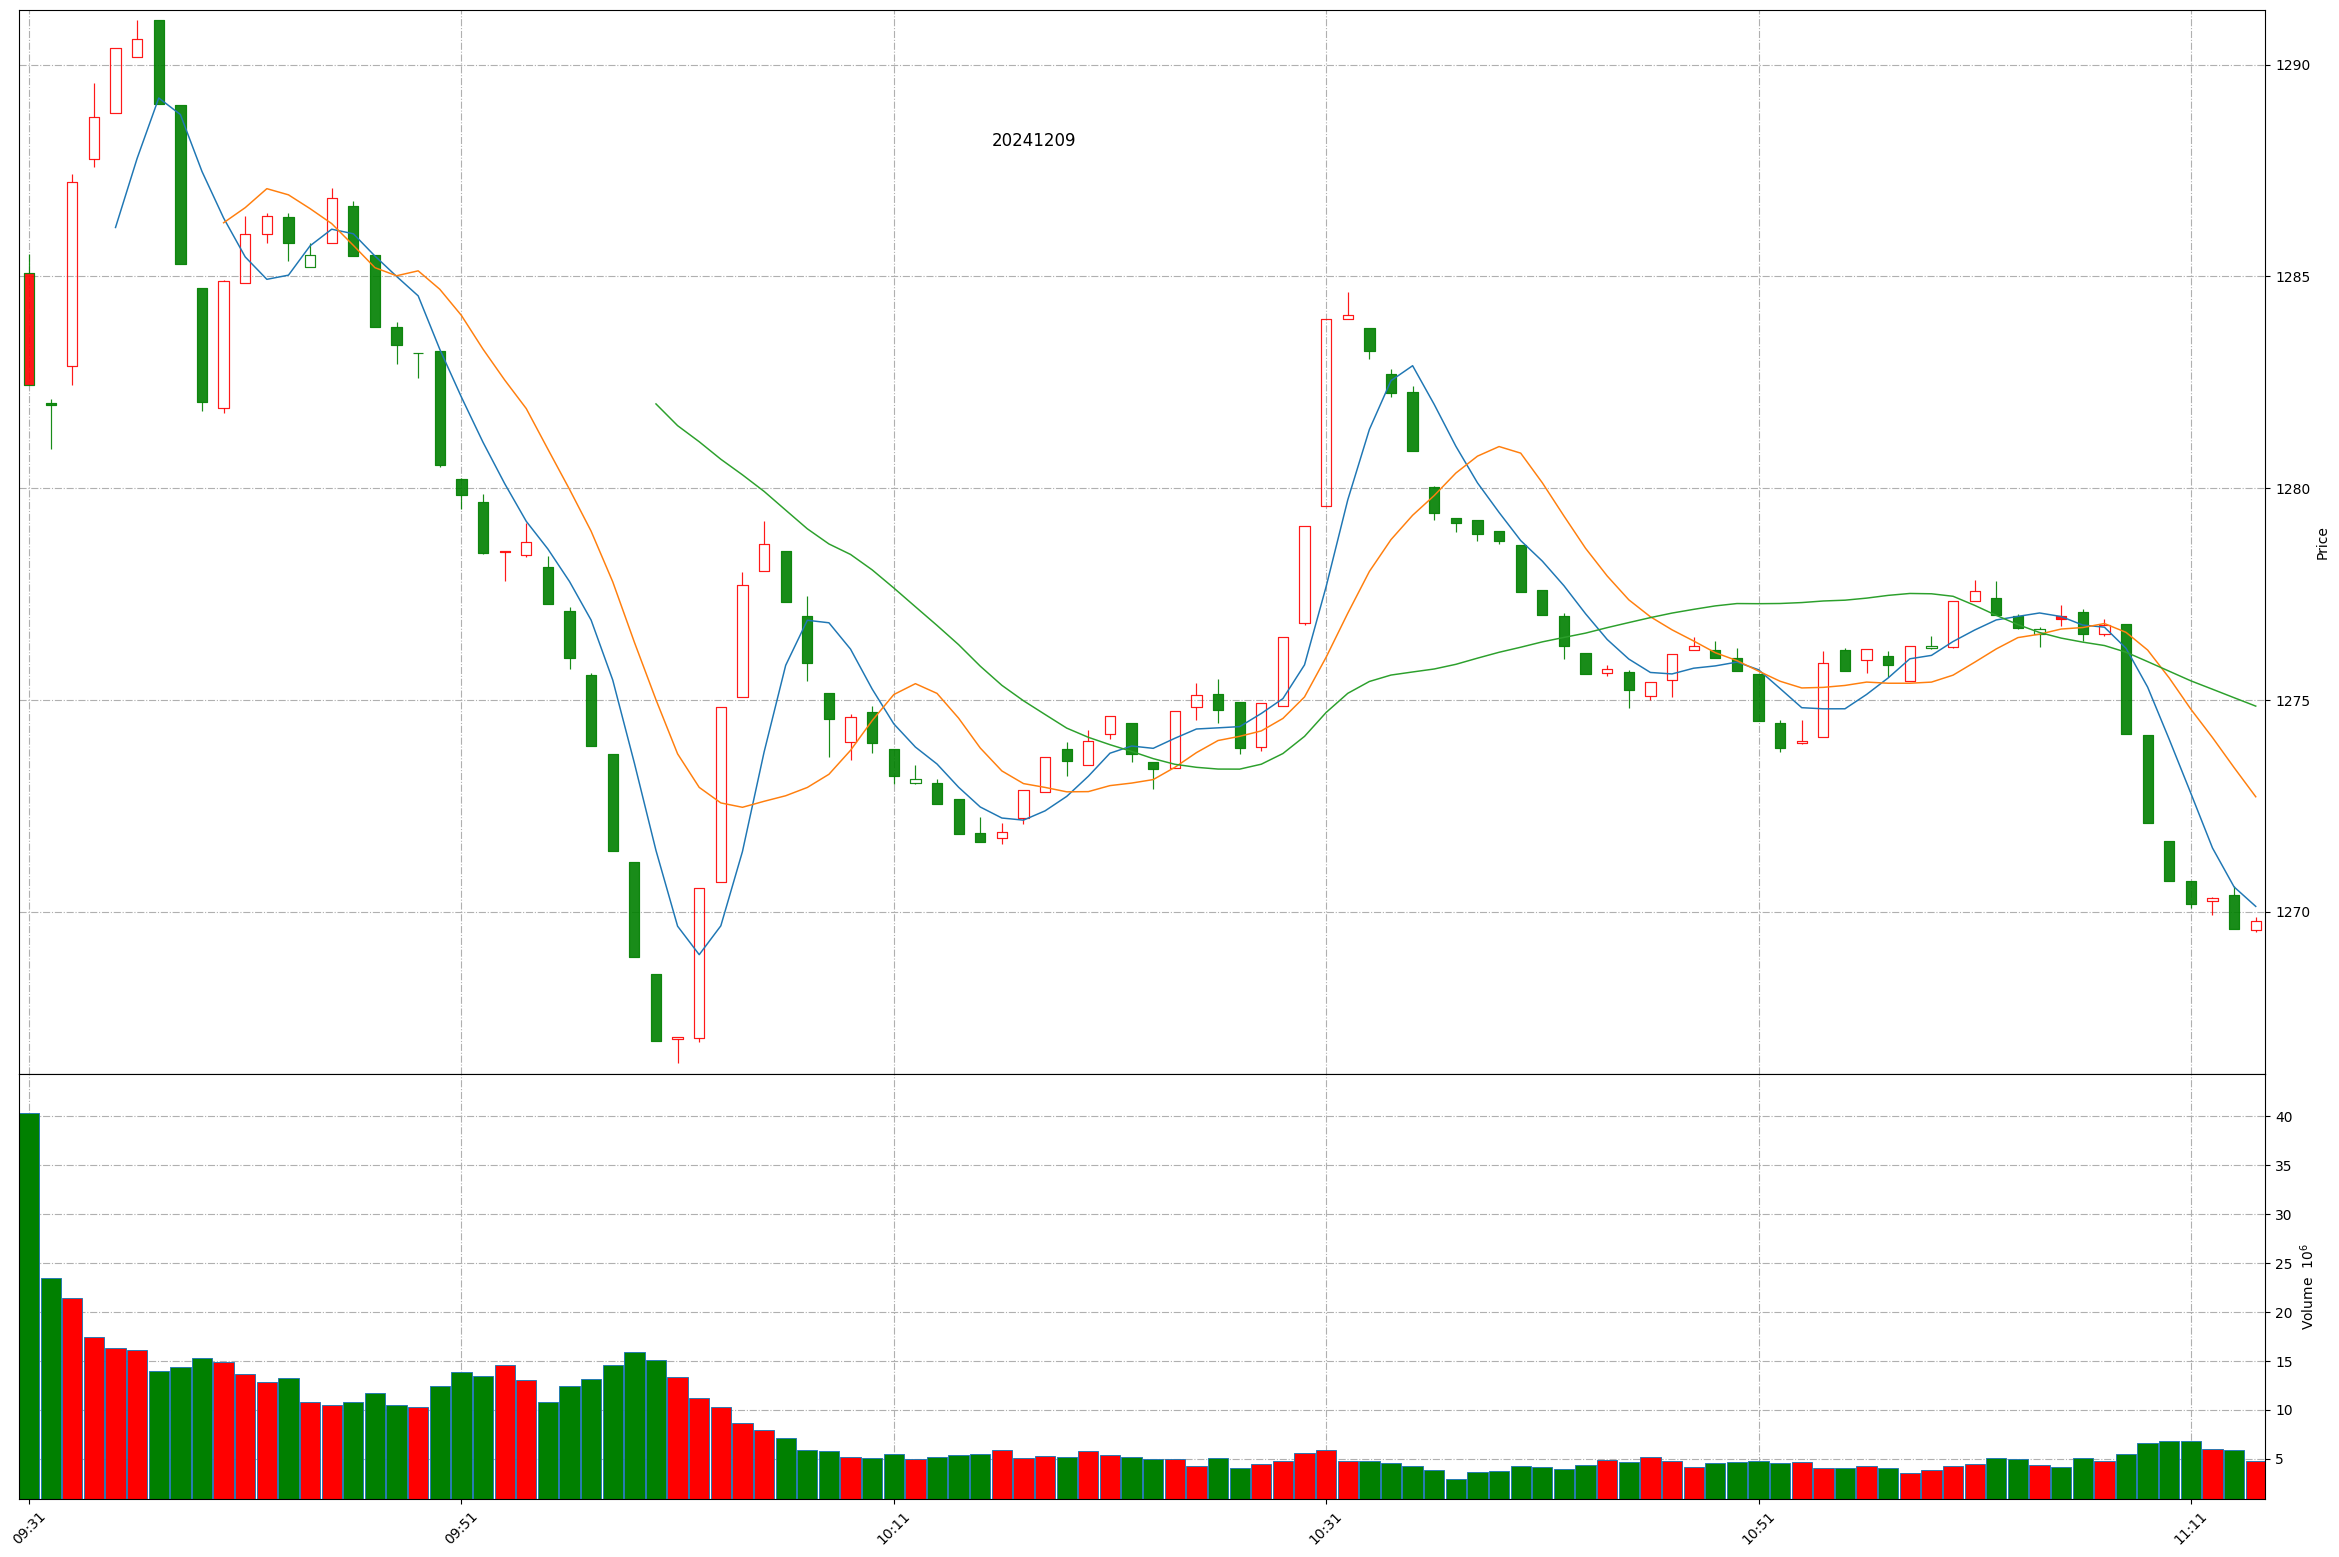
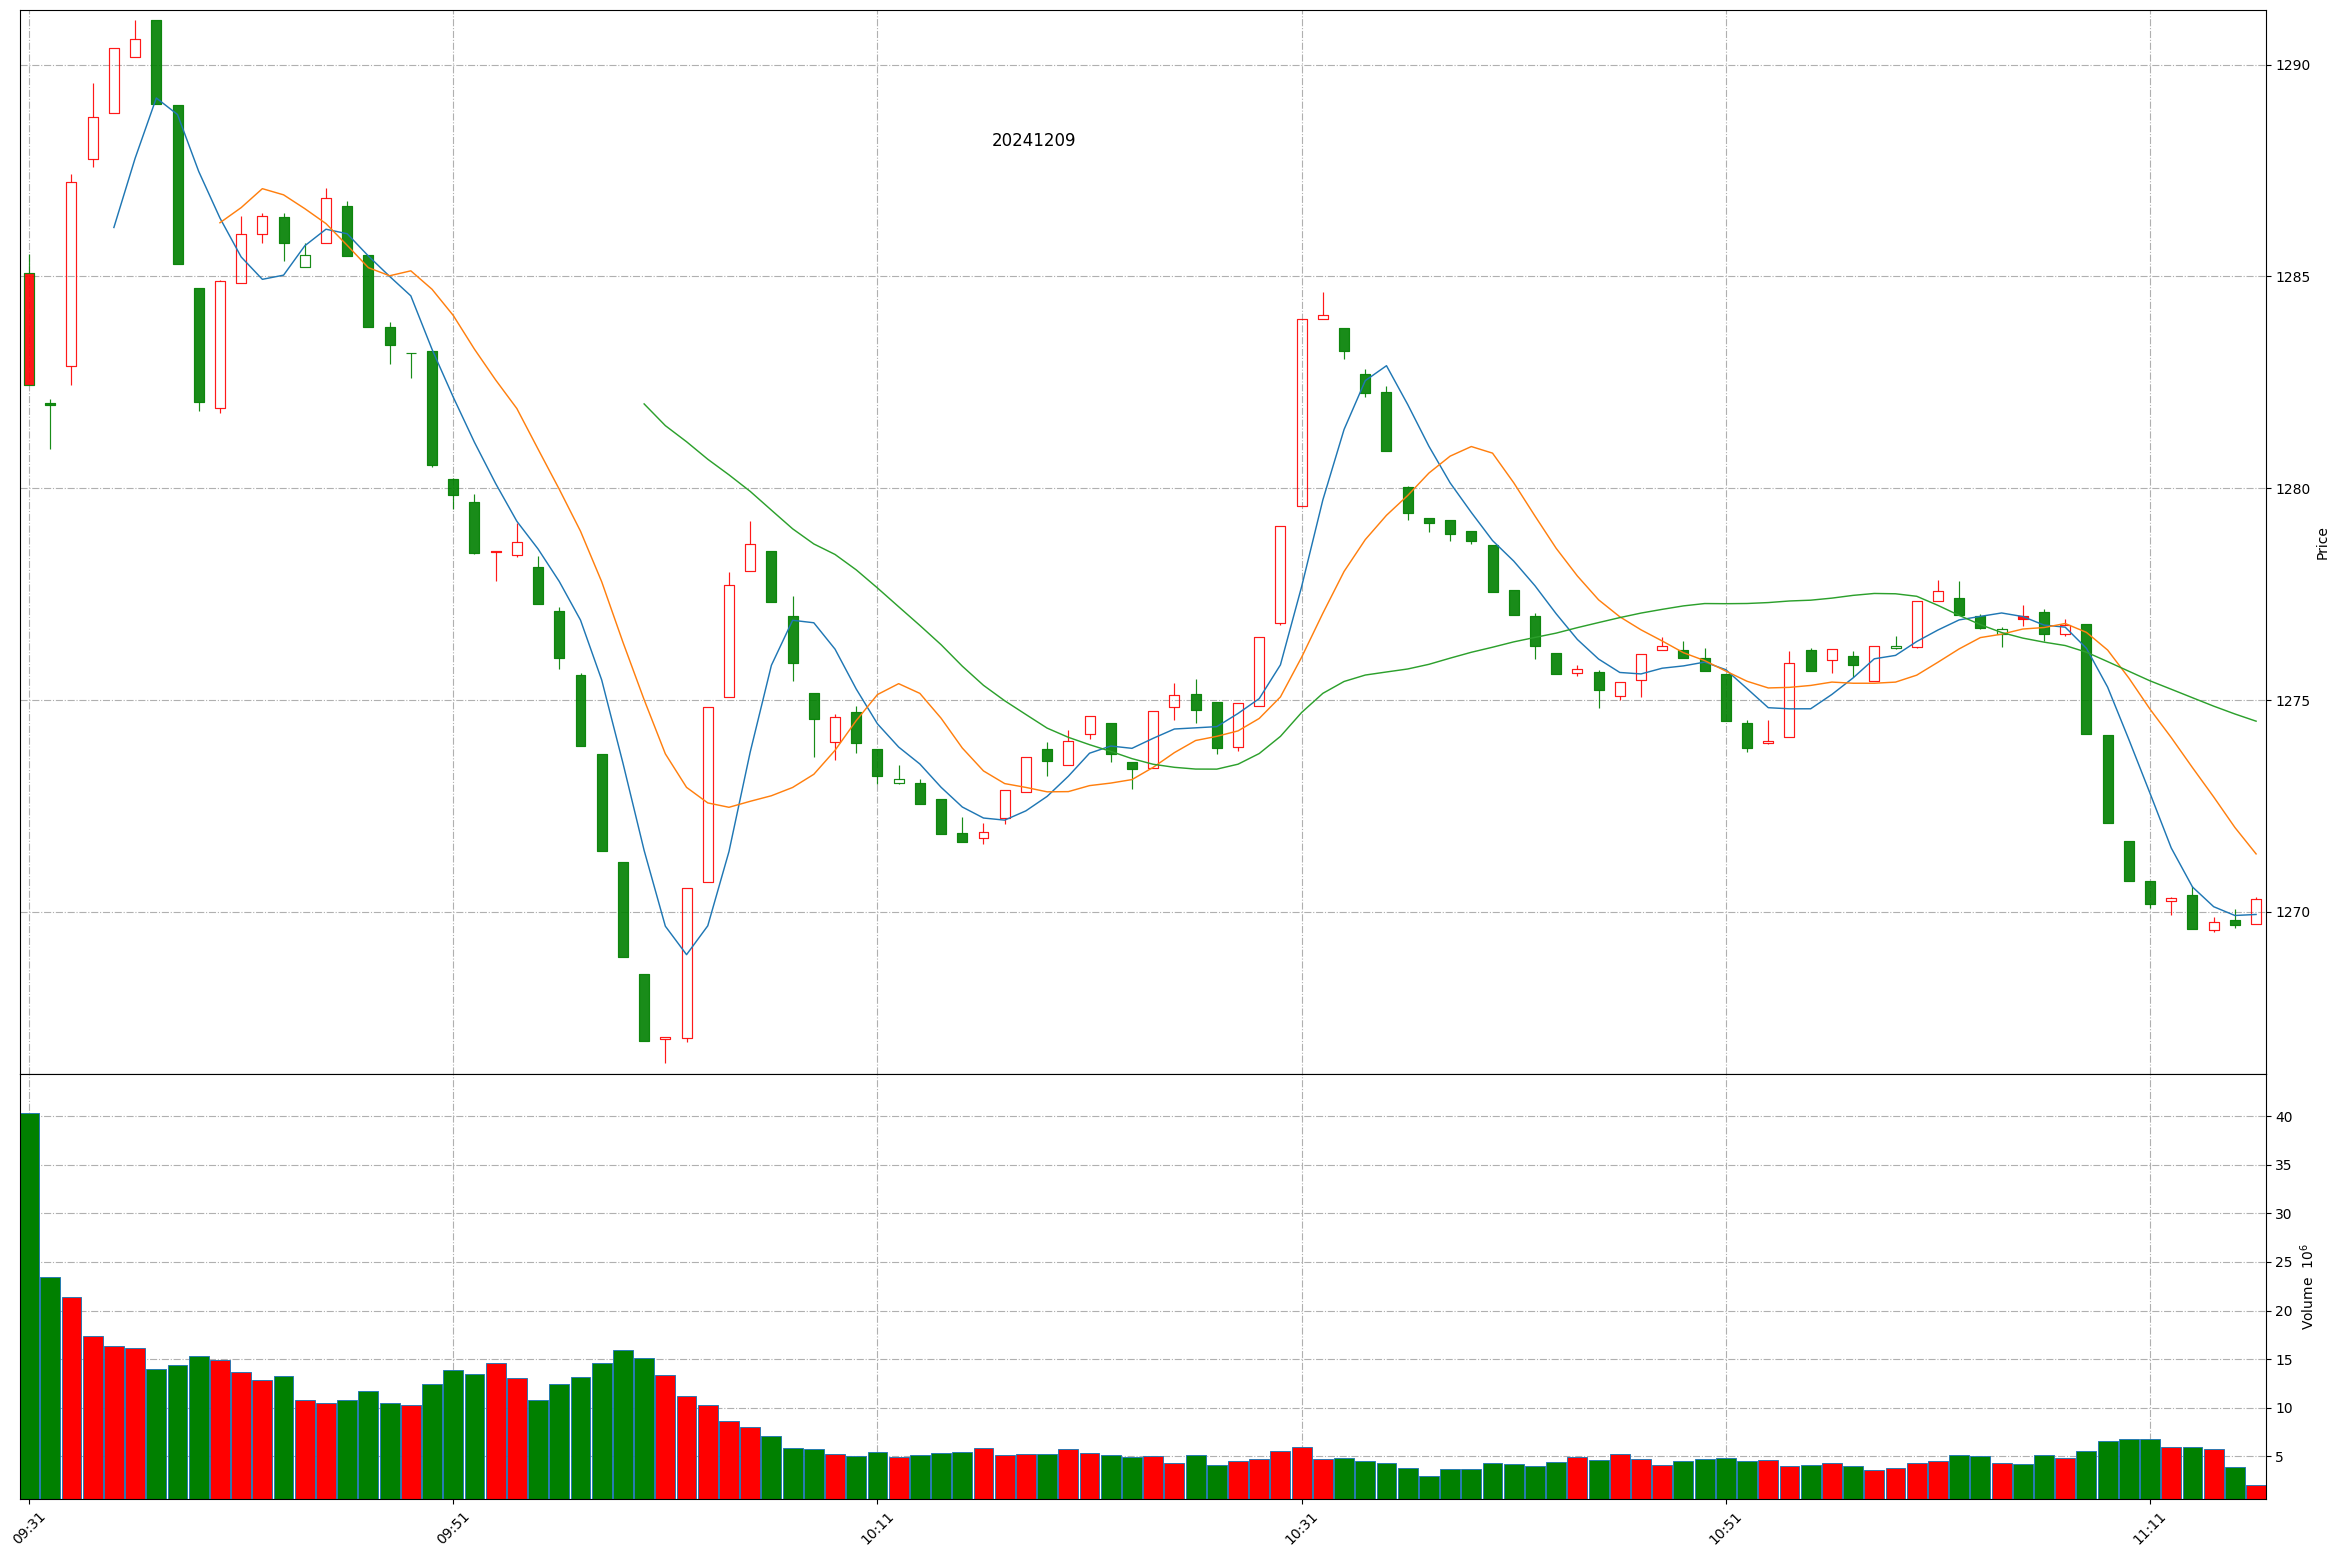
Github action update at 2024-12-09 11:15:42.

diff --git a/README.md b/README.md
@@ -1,11 +1,11 @@
 
 # Daily-A-share-market-quotes 每日 A 股指数（5min 更新）- 20241209
 
-### 上证指数 20241209 11:13
+### 上证指数 20241209 11:15
 ![](./fig/2024/12/20241209-sh000001.png)
 
-### 深证成指 20241209 11:13
+### 深证成指 20241209 11:15
 ![](./fig/2024/12/20241209-sz399001.png)
 
-### 北证50 20241209 11:13
+### 北证50 20241209 11:15
 ![](./fig/2024/12/20241209-bj899050.png)
